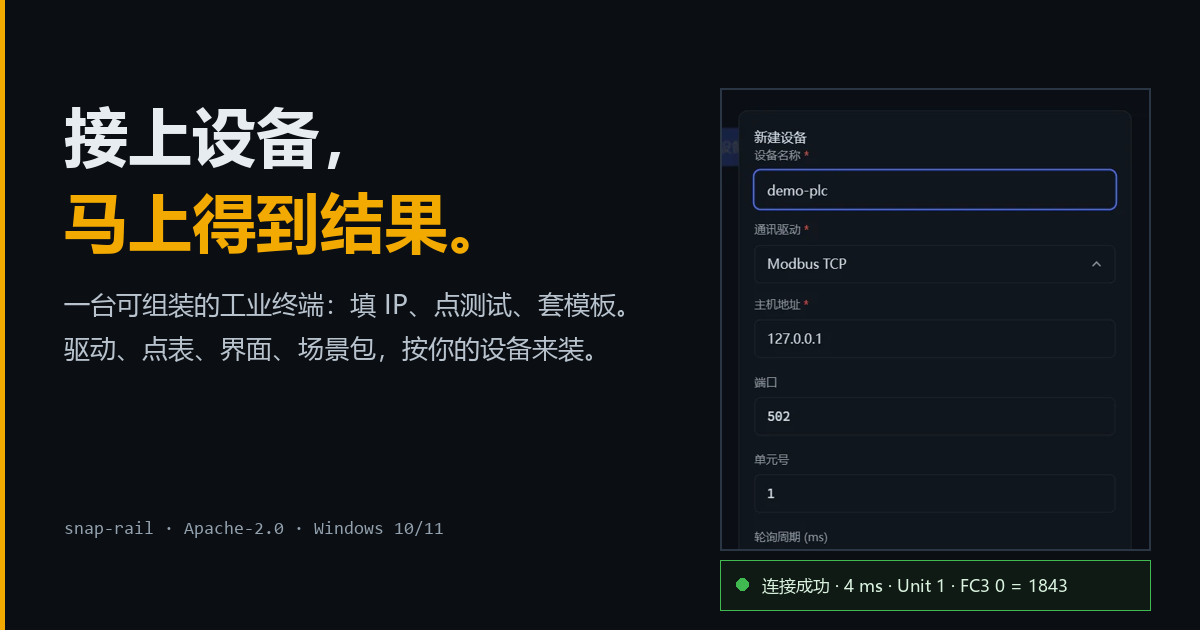
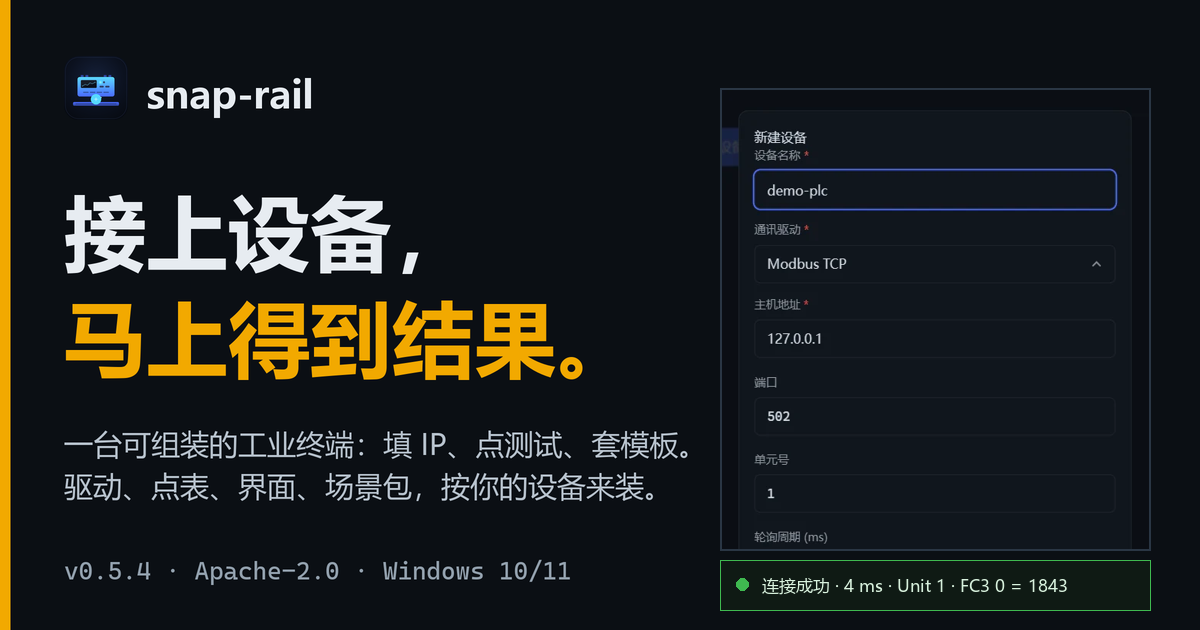
chore(release): v0.5.4
og 卡换上全新图标锁定组合并接入版本单源：website/scripts/generate-og.py
从 apps/desktop/package.json 读版本，重绘 og.png 并盖章官网
softwareVersion 与 feed 下载链接，--check 校验漂移；右侧产品截图
以 og-reference.png 存档为固定素材。本版升至 0.5.4，og 与官网引用随动。

diff --git a/website/index.html b/website/index.html
@@ -26,10 +26,10 @@
         "name": "snap-rail",
         "applicationCategory": "Industrial Automation Software",
         "operatingSystem": "Windows 10, Windows 11",
-        "softwareVersion": "0.5.3",
+        "softwareVersion": "0.5.4",
         "license": "https://www.apache.org/licenses/LICENSE-2.0",
         "description": "可组装的工业终端 / HMI：ModbusTCP / EtherNet/IP、设备管理、点位与离线场景包。",
-        "downloadUrl": "https://snap-rail-feed.oss-cn-shenzhen.aliyuncs.com/feed/snap-rail-0.5.3-x64-setup.exe",
+        "downloadUrl": "https://snap-rail-feed.oss-cn-shenzhen.aliyuncs.com/feed/snap-rail-0.5.4-x64-setup.exe",
         "screenshot": "https://www.snap-rail.top/og.png",
         "offers": { "@type": "Offer", "price": "0", "priceCurrency": "CNY" }
       }

diff --git a/website/scripts/generate-og.py b/website/scripts/generate-og.py
@@ -1,0 +1,173 @@
+"""snap-rail og card generator + website version stamper.
+
+Single source of truth for the product version is apps/desktop/package.json
+(the same field electron-builder derives the exe / NSIS / feed versions from).
+This script derives everything version-shaped on the website from it:
+
+  - website/public/og.png          regenerated: brand lockup + version line,
+                                   right product screenshot carried over
+  - website/index.html             `softwareVersion` and the feed
+                                   `downloadUrl` are stamped to the version
+
+Usage:
+  py website/scripts/generate-og.py           # stamp og.png + index.html
+  py website/scripts/generate-og.py --check   # verify both match; exit 1 on drift
+"""
+
+import importlib.util
+import json
+import re
+import sys
+from pathlib import Path
+
+from PIL import Image, ImageDraw, ImageFont
+
+ROOT = Path(__file__).resolve().parents[2]
+ICON_GENERATOR = ROOT / 'docs' / 'brand' / 'icon' / 'a3-industrial' / 'generate.py'
+INDEX_HTML = ROOT / 'website' / 'index.html'
+OG_PNG = ROOT / 'website' / 'public' / 'og.png'
+OLD_OG = ROOT / 'docs' / 'brand' / 'icon' / 'a3-industrial' / 'og-reference.png'
+
+W, H = 1200, 630
+S = 2  # text layer supersample; the screenshot crop is composited at 1x
+
+BG = (11, 15, 20)          # #0b0f14, the factory night theme bg
+AMBER = (242, 169, 0)      # #f2a900, sampled from the existing card
+WHITE = (231, 236, 241)    # #e7ecf1, site --d-text
+DESC = (184, 195, 206)     # #b8c3ce
+META = (147, 161, 174)     # #93a1ae, site --d-muted
+
+RIGHT_CROP = (712, 80, 1160, 618)  # framed product screenshot, kept verbatim
+
+HEADLINE_L1 = '接上设备，'
+HEADLINE_L2 = '马上得到结果。'
+DESC_LINES = (
+    '一台可组装的工业终端：填 IP、点测试、套模板。',
+    '驱动、点表、界面、场景包，按你的设备来装。',
+)
+
+
+def load_version():
+    manifest = ROOT / 'apps' / 'desktop' / 'package.json'
+    return json.loads(manifest.read_text(encoding='utf-8'))['version']
+
+
+def load_icon_image():
+    spec = importlib.util.spec_from_file_location('snap_rail_icon_gen', ICON_GENERATOR)
+    module = importlib.util.module_from_spec(spec)
+    spec.loader.exec_module(module)
+    return module.render_icon_512()
+
+
+def load_fonts():
+    def truetype(names, size):
+        for name in names:
+            path = Path('C:/Windows/Fonts') / name
+            if path.exists():
+                return ImageFont.truetype(str(path), size)
+        raise SystemExit(f'none of {names} found in C:/Windows/Fonts')
+
+    return {
+        'wordmark': truetype(['msyhbd.ttc', 'simhei.ttf'], 38 * S),
+        'headline': truetype(['msyhbd.ttc', 'simhei.ttf'], 82 * S),
+        'desc': truetype(['msyh.ttc', 'simhei.ttf'], 29 * S),
+        'meta': truetype(['CascadiaMono.ttf', 'CascadiaCode.ttf', 'consola.ttf'], 25 * S),
+    }
+
+
+def render_base(version):
+    """Deep-space card at 1x: brand lockup, headline, desc, versioned meta line."""
+    canvas = Image.new('RGBA', (W * S, H * S), BG + (255,))
+    draw = ImageDraw.Draw(canvas)
+    fonts = load_fonts()
+
+    draw.rectangle([0, 0, 10 * S, H * S], fill=AMBER + (255,))
+
+    icon = load_icon_image().resize((64 * S, 64 * S), Image.Resampling.LANCZOS)
+    canvas.paste(icon, (64 * S, 56 * S), icon)
+    draw.text((146 * S, 68 * S), 'snap-rail', font=fonts['wordmark'], fill=WHITE + (255,))
+
+    draw.text((64 * S, 176 * S), HEADLINE_L1, font=fonts['headline'], fill=WHITE + (255,))
+    draw.text((64 * S, 282 * S), HEADLINE_L2, font=fonts['headline'], fill=AMBER + (255,))
+    for i, line in enumerate(DESC_LINES):
+        draw.text((64 * S, (424 + i * 42) * S), line, font=fonts['desc'], fill=DESC + (255,))
+    draw.text(
+        (64 * S, 556 * S),
+        f'v{version} · Apache-2.0 · Windows 10/11',
+        font=fonts['meta'], fill=META + (255,),
+    )
+
+    return canvas.resize((W, H), Image.Resampling.LANCZOS)
+
+
+def render_og(version, reference):
+    og = render_base(version)
+    og.paste(reference.crop(RIGHT_CROP), RIGHT_CROP[:2])
+    return og.convert('RGB')
+
+
+def stamp_index(version):
+    """Point softwareVersion and the feed downloadUrl at the version. Idempotent."""
+    with open(INDEX_HTML, encoding='utf-8', newline='') as file:
+        text = file.read()
+    text, n_ver = re.subn(
+        r'("softwareVersion"\s*:\s*")[^"]+(")',
+        rf'\g<1>{version}\g<2>',
+        text,
+    )
+    text, n_url = re.subn(
+        r'snap-rail-\d+\.\d+\.\d+-x64-setup\.exe',
+        f'snap-rail-{version}-x64-setup.exe',
+        text,
+    )
+    if n_ver != 1 or n_url != 1:
+        raise SystemExit(f'unexpected index.html shape: softwareVersion x{n_ver}, downloadUrl x{n_url}')
+    with open(INDEX_HTML, 'w', encoding='utf-8', newline='') as file:
+        file.write(text)
+    return n_ver + n_url
+
+
+def check(version):
+    problems = []
+    text = INDEX_HTML.read_text(encoding='utf-8')
+    if f'"softwareVersion": "{version}"' not in text:
+        problems.append('index.html softwareVersion != package.json version')
+    if f'snap-rail-{version}-x64-setup.exe' not in text:
+        problems.append('index.html downloadUrl != package.json version')
+    reference = Image.open(OLD_OG)
+    current = Image.open(OG_PNG)
+    if current.size != (W, H):
+        problems.append(f'og.png size {current.size} != {(W, H)}')
+    else:
+        expected = render_og(version, reference)
+        if expected.tobytes() != current.convert('RGB').tobytes():
+            problems.append('og.png pixels drift from the generator output')
+    return problems
+
+
+def main():
+    argv = sys.argv[1:]
+    version = load_version()
+    if not OLD_OG.exists():
+        # first run: keep the current card as the screenshot reference
+        OLD_OG.write_bytes(OG_PNG.read_bytes())
+        print(f'reference card saved: {OLD_OG.name}')
+    reference = Image.open(OLD_OG)
+
+    if '--check' in argv:
+        problems = check(version)
+        if problems:
+            print('verify:og — drift:')
+            for problem in problems:
+                print(f'  - {problem}')
+            sys.exit(1)
+        print(f'verify:og — clean (v{version})')
+        return
+
+    changes = stamp_index(version)
+    render_og(version, reference).save(OG_PNG)
+    print(f'og.png regenerated, index.html stamped ({changes} fields) at v{version}')
+
+
+if __name__ == '__main__':
+    main()
